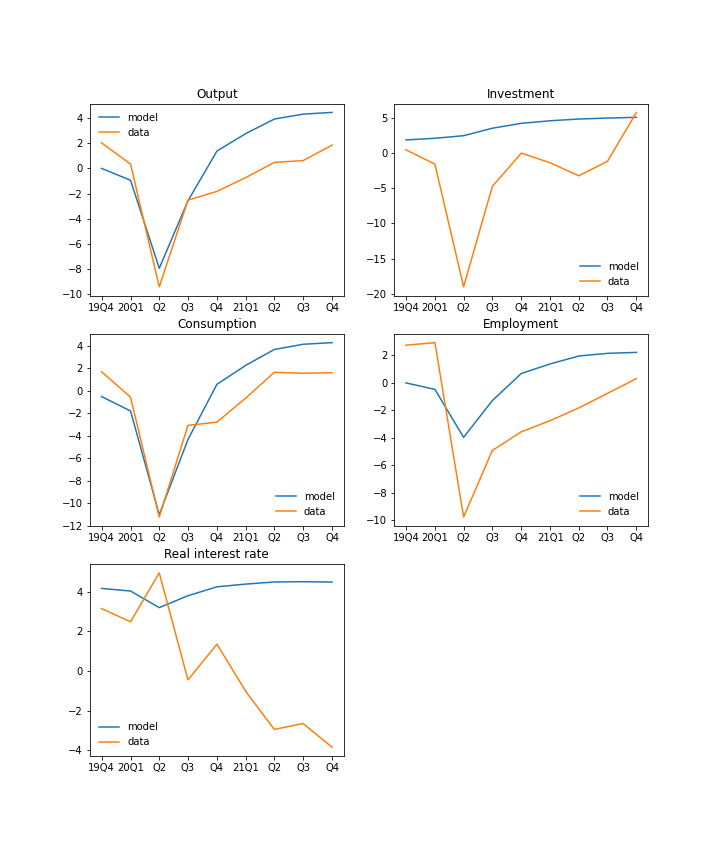
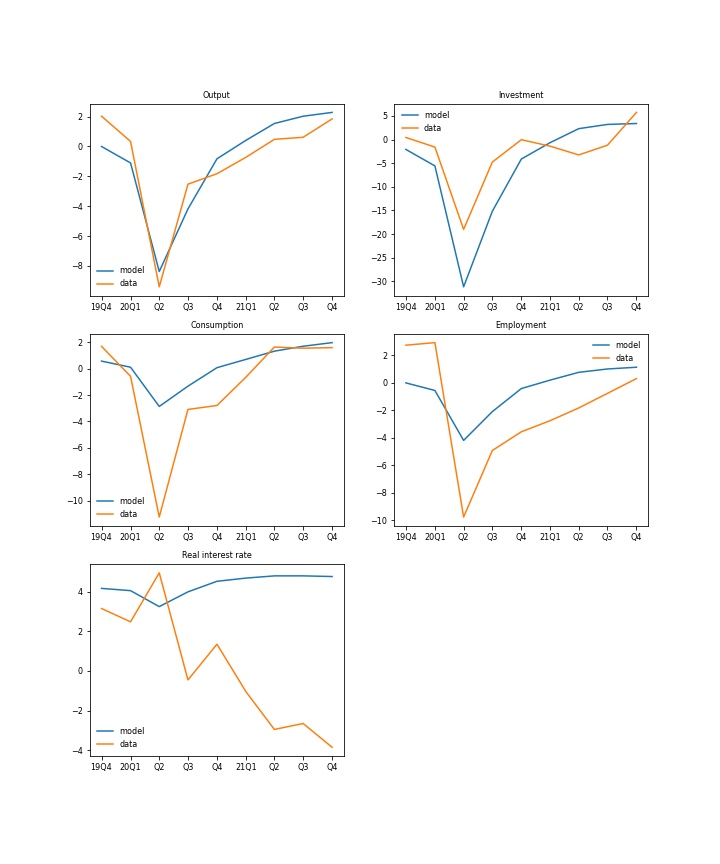
Modified a critical error in Eval_Euler method

diff --git a/HW1/mtQuantMacroHW1.py b/HW1/mtQuantMacroHW1.py
@@ -259,7 +259,7 @@ class Det_NCG_Mdl:
         LHS = self.MUC(k_t, l_t, k_tp1, t)
         
         RHS = beta * (A * theta * (k_tp1/l_tp1)**(theta-1) + 1 - delta)\
-            * self.MUC(k_tp1, l_tp1, k_tp2, t)
+            * self.MUC(k_tp1, l_tp1, k_tp2, t+1)
         
         resid = LHS - RHS
         
@@ -320,13 +320,13 @@ class Det_NCG_Mdl:
                 k_t   = k_path_new[t]
                 k_tp2 = k_path_new[t+2]
                 
-                k_t, _ = self.DoBisection(k_t    = k_t, 
-                                          k_tp2  = k_tp2,
-                                          t      = t,
-                                          kmin   = k_min,
-                                          kmax   = k_max,
-                                          Silent = True)
-                k_path_new[t + 1] = deepcopy(k_t)
+                k_tp1, _ = self.DoBisection(k_t    = k_t, 
+                                            k_tp2  = k_tp2,
+                                            t      = t,
+                                            kmin   = k_min,
+                                            kmax   = k_max,
+                                            Silent = True)
+                k_path_new[t+1] = deepcopy(k_tp1)
             
             diff_i = [(k_new - k_old)**2 for (k_new, k_old) in zip(k_path_new, k_path_old)]
             diff_i = sum(diff_i)**0.5
